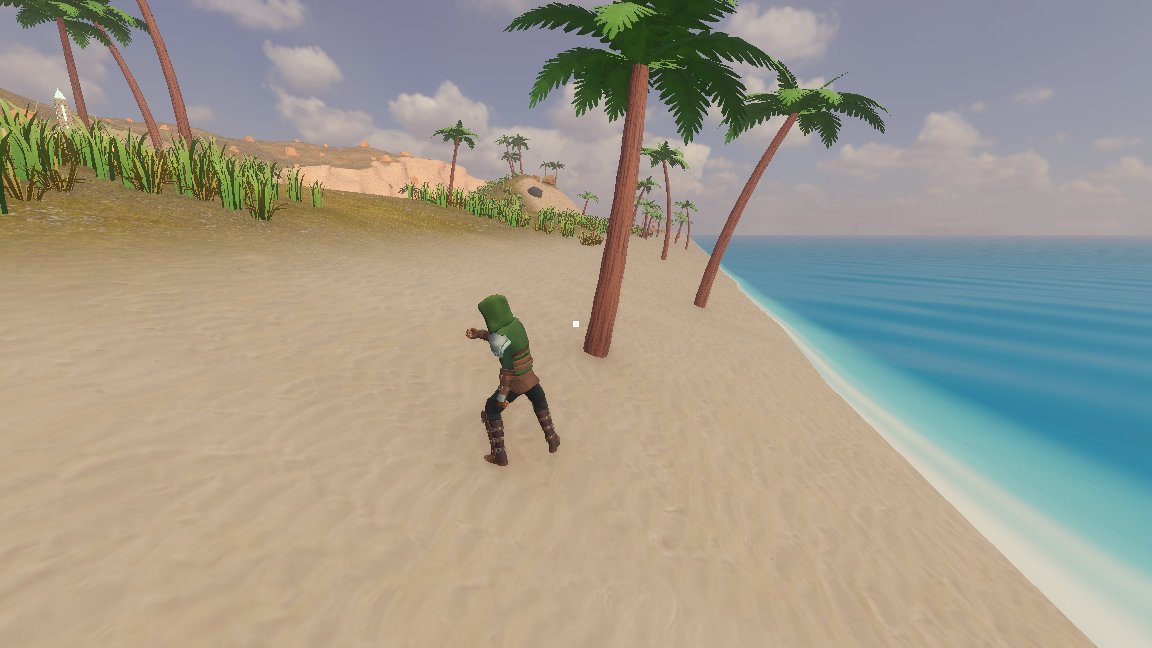
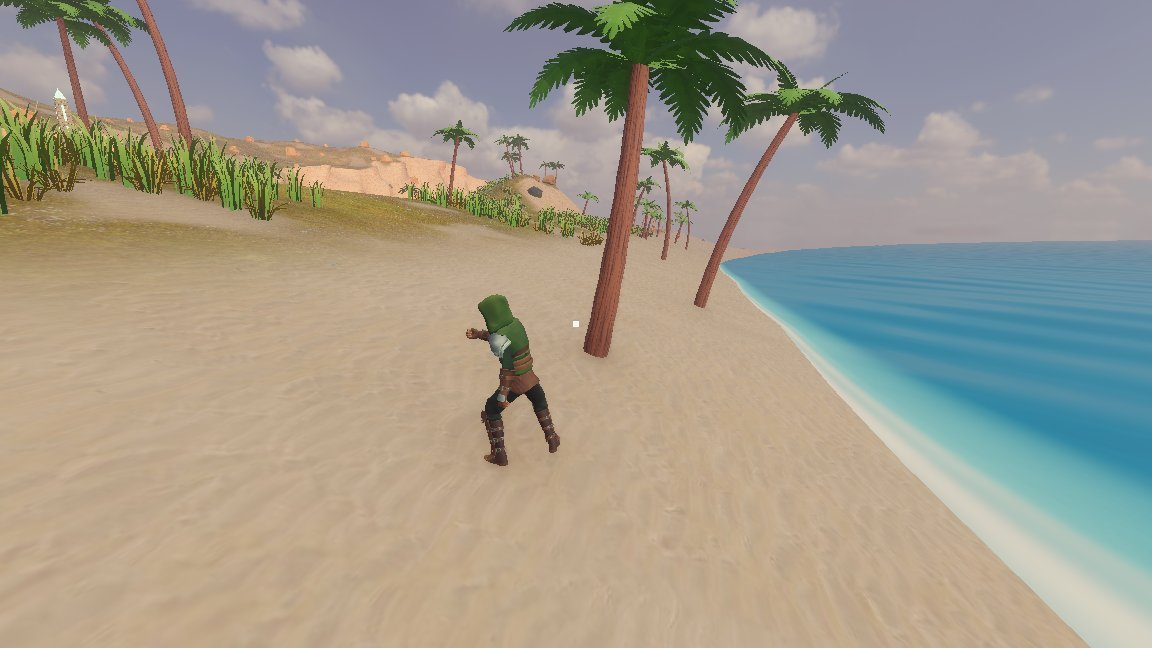
Белое пятно в яме: море рисуется только над открытой водой
Причина — не дыра в сетке: дно ямы на пляже ниже уровня моря, туда попадала плоскость моря
с почти нулевой толщиной воды, и шейдер красил её пеной. Теперь море рисуется и держит героя
по пояс только над открытой водой бухты (Sea.is_open_water, то же правило в шейдере):
ямы на суше и низины у обрыва сухие.

- спека TER-S18: яма на пляже глубже уровня моря сухая, герой спускается на её дно;
- технический тест: правило открытой воды согласовано с формой берега генератора;
- TER-2.5 не выполнено: спека TER-S19 пропускается с причиной, непроверенная очистка растений убрана;
- раскадровка переснята.

Claude-Session: https://claude.ai/code/session_01Vp2x9VFjxUHLVnSoBuqq9B

diff --git a/docs/engineering/game.md b/docs/engineering/game.md
@@ -85,7 +85,7 @@ Godot 4.7, GDScript со статической типизацией. Проек
   - цветокоррекция: контраст 1,1, насыщенность 1,2, тёплая кривая `GradientTexture1D`;
   - трава рельефа подкрашена в тёплую оливу, песок — в `#E8D3A6` (`grass_tint`, `sand_tint` шейдера рельефа);
   - на ровном грунте пятна по крупному шуму (`patch_tex`, шаг ~10 м): сочная трава и песчаные проплешины. Это только вид: правило грунта `ground_of` их не различает.
-- **Море** (`world/sea.tscn`) — плоскость 1024 м на `WorldTerrain.SEA_Y`, 256 × 256 квадов. Шейдер:
+- **Море** (`world/sea.tscn`, `sea.gd`) — плоскость 1024 м на `WorldTerrain.SEA_Y`, 256 × 256 квадов. Рисуется только над открытой водой (`Sea.is_open_water`): где доля берега больше, чем там, где стихают холмы (`HILLS_FADE`), и нетронутый берег ниже уровня моря с запасом 1 м. Ямы на суше ниже уровня моря и низины у обрыва сухие. Правило продублировано в шейдере, параметры задаёт `sea.gd` из `WorldTerrain`. Шейдер:
   - толщина воды — по буферу глубины: бирюза `#3FC1C9` на мелком → синева `#1D6F8C` к 6 м;
   - на мелком сквозь воду видно дно;
   - пена там, где толщина воды меньше 1,6 м; отражение неба слабое (SPECULAR 0,25), чтобы цвет воды задавал шейдер;
@@ -104,7 +104,7 @@ Godot 4.7, GDScript со статической типизацией. Проек
   Ограничения:
   - полоса ±0,4 м вокруг ровного грунта руин пропускается, чтобы растения не пробивали пол;
   - растут только на вокселях поверхности и камня, выкопанная земля не зарастает.
-- **Мелководье** (`world/shallows.gd`, TER-1.6): узел после героя в `world.tscn`. Если герой в бухте (за линией берега генератора) встал на дно глубже 1 м под уровнем моря, он возвращается туда, где стоял мельче, и теряет горизонтальную скорость — как упёрся в стену. Озёр у обрыва это не касается.
+- **Мелководье** (`world/shallows.gd`, TER-1.6): узел после героя в `world.tscn`. Если герой над открытой водой (`Sea.is_open_water`) встал на дно глубже 1 м под уровнем моря, он возвращается туда, где стоял мельче, и теряет горизонтальную скорость — как упёрся в стену. Ямы на пляже ниже уровня моря и низины у обрыва сухие, туда герой спускается.
 - **Руины над бухтой** (`world/decor.tscn`) — модули песчаника на ровном грунте у южного края площадки (z 13–23): акведук из пяти арок, колонны, светящиеся обелиск и панель, обломки, лианы, пальмы. У краёв пола площадки — декали песка и травы, обломанные плиты, трава, кусты и папоротники; они стоят только по краю пола, за пределами мест, где спеки передвижения ставят героя, и только в мире. `decor.gd` при запуске даёт модулям руин коллизию по их сетке (`create_trimesh_collision`, слой 1): сквозь арки и колонны не пройти, на обломки можно запрыгнуть. У растений коллизий нет.
 
 ## Спеки и тесты

diff --git a/docs/engineering/terrain.md b/docs/engineering/terrain.md
@@ -26,7 +26,7 @@
 | Площадка | Пол руин — 40 м. Грунт на 0,1 м ниже: руины стоят на нём, герой сходит с пола без ступеньки. Ровно в прямоугольнике x от −16 до 48, z от −24 до 24 — под руинами, полем `Field` и с запасом |
 | Холмы | Двумерный шум ±30 м вокруг 40 м. От площадки к холмам — плавный переход 24 м |
 | Обрыв | Вдоль z = −70 рельеф поднимается на 25 м на протяжении 2 м. Линия обрыва сдвигается объёмным шумом до ±8 м в зависимости от высоты: так получаются нависания и навесы над полом у подножия |
-| Берег и море | Море — плоскость `world/sea.tscn` на y = 33 (`SEA_Y`). К югу от руин (+Z) доля берега растёт от z = 24 на протяжении 100 м; линия берега изогнута: по краям бухта начинается дальше на (x − 16)² × 0,004 м. Холмы стихают к 1/12 доли берега, а рельеф плавно спускается к дну на 18 м. Где холмы у обрыва ниже 33 м, море видно и там — озёра; мелководье (TER-1.6) там не действует |
+| Берег и море | Море — плоскость `world/sea.tscn` на y = 33 (`SEA_Y`). К югу от руин (+Z) доля берега растёт от z = 24 на протяжении 100 м; линия берега изогнута: по краям бухта начинается дальше на (x − 16)² × 0,004 м. Холмы стихают к 1/12 доли берега, а рельеф плавно спускается к дну на 18 м. |
 | Низ мира | Грунт до y = −16. Нижняя граница мира — −10 м (`Hero.FALL_LIMIT_Y`, [MOV-1.5](../features/movement.md)): герой, прокопавшийся ниже или ушедший за край участка, возвращается на старт |
 
 Выражения графа не знают отрицательных литералов и сравнений: `WorldTerrain._num` пишет отрицательные числа как `(0.0 - a)`, признак «a < 0» — `clamp(floor(0.0 - a) + 1.0, 0.0, 1.0)`. После идентификатора нельзя писать `- (`: разбор принимает это за вызов функции.
@@ -60,8 +60,6 @@
 - **Постройки** — не грунт: `do_sphere` меняет только воксели. Детали и предметы остаются, в том числе если под ними выкопан грунт.
 - Сетку и коллизию после правки рельеф строит в потоках, через несколько кадров.
 - Щелчок копания или насыпания проигрывает у героя взмах `dig`.
-- Растения и камни `VoxelInstancer` в радиусе 2,5 м от центра правки убираются (`remove_instances_in_sphere`).
-- Известный дефект: при повторном копании в одной точке на дне ямы иногда видна дыра в сетке, сквозь неё просвечивает небо.
 
 ### Сохранение
 
